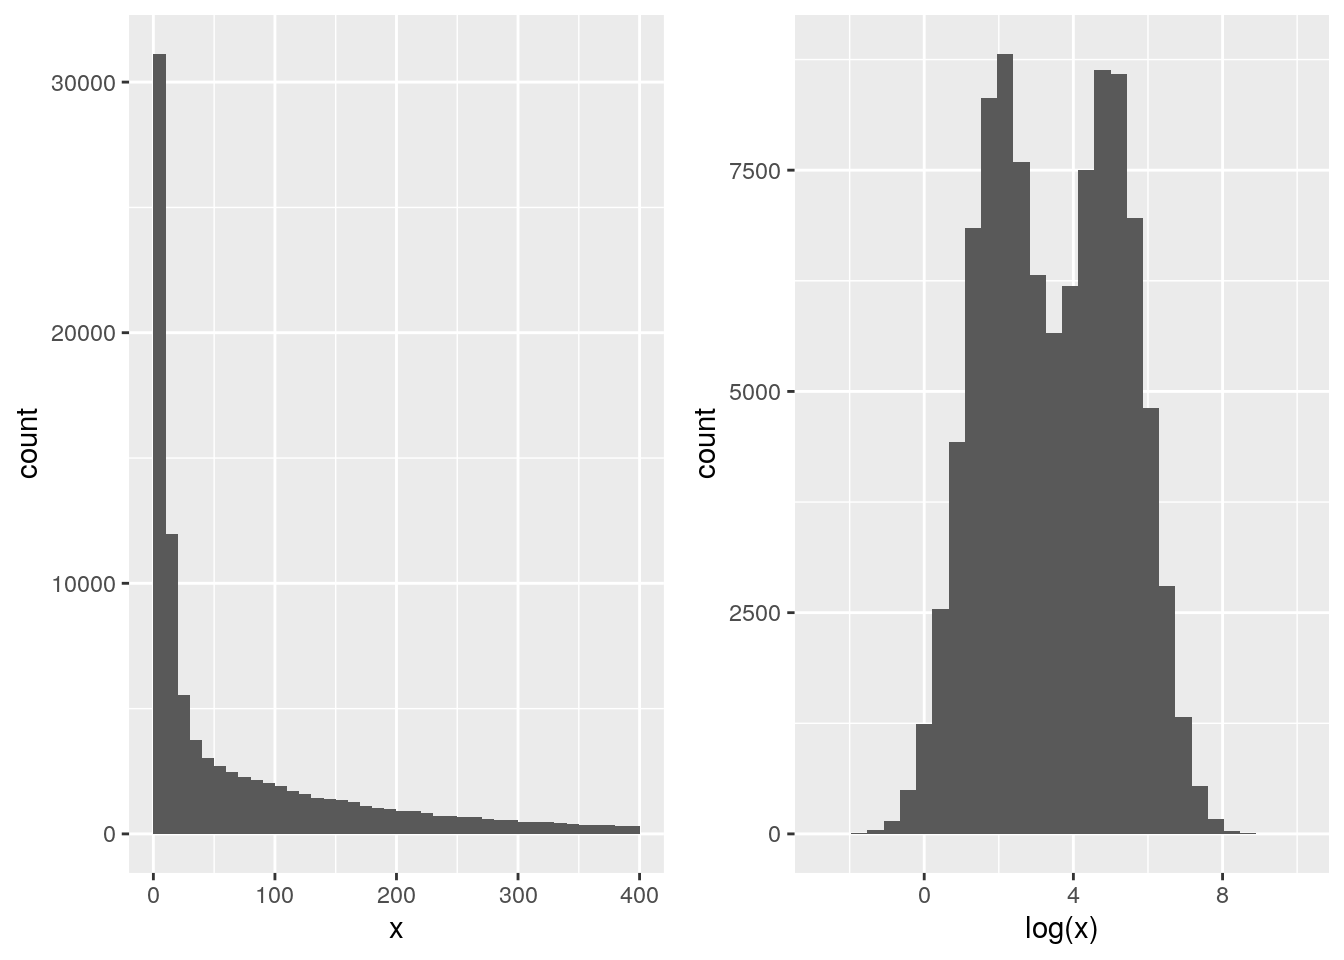
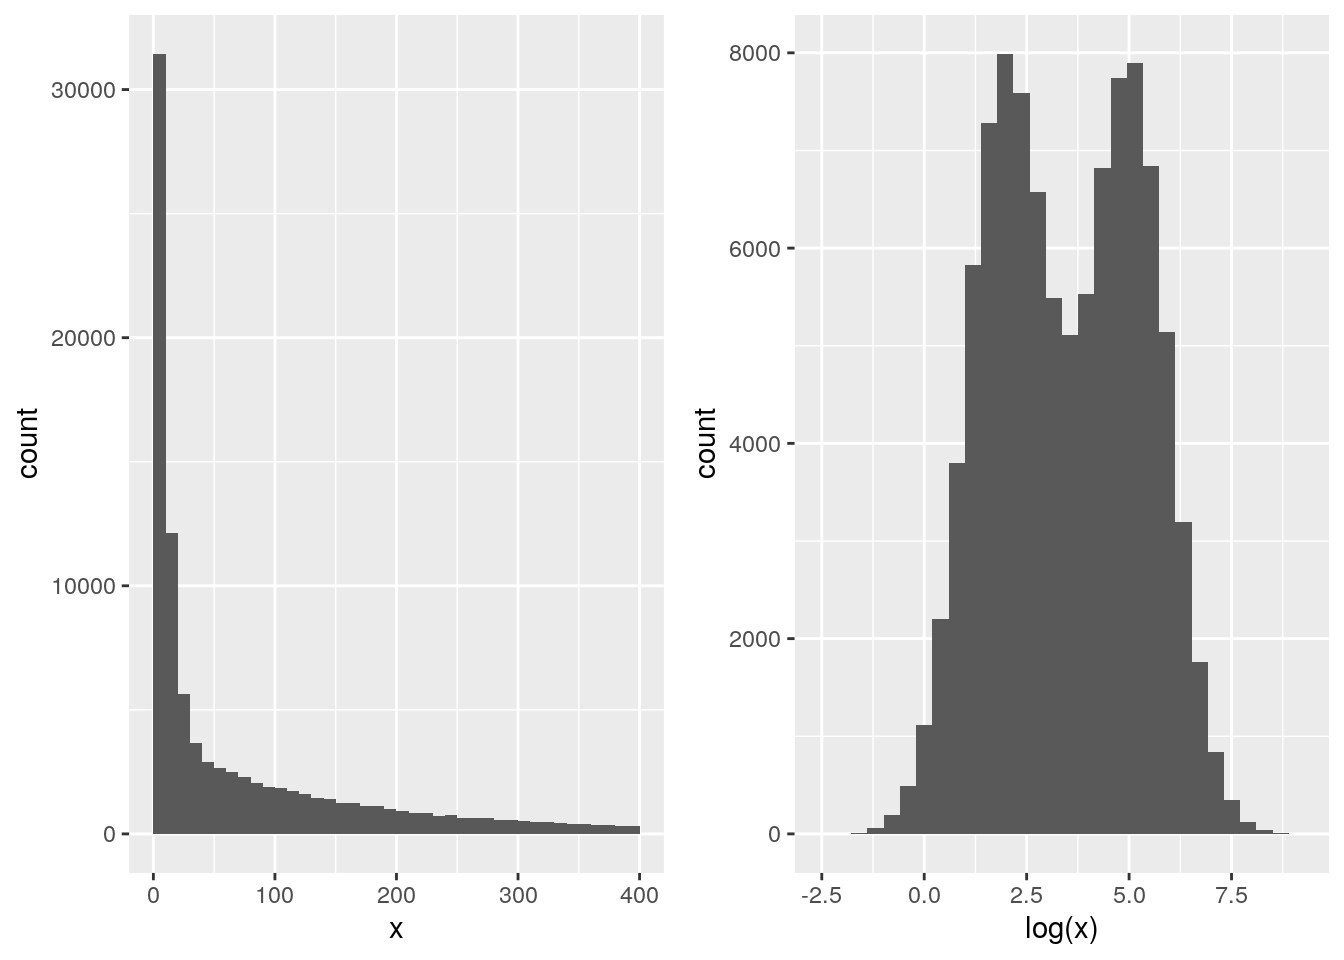
add knn ex

diff --git a/docs/sec-sl.html b/docs/sec-sl.html
@@ -15,7 +15,7 @@
 
 <meta name="author" content="Laurent Gatto" />
 
-<meta name="date" content="2019-11-29" />
+<meta name="date" content="2019-11-30" />
 
 <script type="text/x-mathjax-config">
 MathJax.Hub.Config({
@@ -748,6 +748,71 @@ Figure 10.9: Precision and accuracy when shooting.
 <div id="additional-exercises-8" class="section level2">
 <h2>
 <span class="header-section-number">10.6</span> Additional exercises</h2>
+<p>Load the <code>hyperLOPIT2015</code> data from the <code>pRolocdata</code> package. See section <a href="sec-dimred.html#sec:dimred02">8.7.2</a>) for details. The features variable column <code>markers</code> defines the proteins for which the sub-cellular localisation is known - these are the labelled data. Those that are marked <code>unknown</code> are of unknown location - these are the unlabelled data.</p>
+<div class="question">
+<p class="question-begin">
+► Question
+</p>
+<div class="question-body">
+<p>Perform a kNN classification setting k=5.</p>
+<p class="question-end">
+<span class="fa fa-square-o solution-icon"></span>
+</p>
+</div>
+</div>
+<div class="question">
+<p class="question-begin">
+► Question
+</p>
+<div class="question-body">
+<p>To assess the results of this classification, visualise the data on two PCA plots, one before and one after classification.</p>
+<p>You can use the following colour palette that uses grey for the unlabelled data.</p>
+<div class="sourceCode"><pre class="sourceCode r"><code class="sourceCode r">cls &lt;-<span class="st"> </span><span class="kw">c</span>(<span class="st">"#E41A1C"</span>, <span class="st">"#377EB8"</span>, <span class="st">"#238B45"</span>, <span class="st">"#FF7F00"</span>, <span class="st">"#FFD700"</span>,
+         <span class="st">"#333333"</span>, <span class="st">"#00CED1"</span>, <span class="st">"#A65628"</span>, <span class="st">"#F781BF"</span>, <span class="st">"#984EA3"</span>,
+         <span class="st">"#9ACD32"</span>, <span class="st">"#B0C4DE"</span>, <span class="st">"#00008A"</span>, <span class="st">"#8B795E"</span>, <span class="st">"#E0E0E060"</span>)</code></pre></div>
+<p class="question-end">
+<span class="fa fa-square-o solution-icon"></span>
+</p>
+</div>
+</div>
+<div class="question">
+<p class="question-begin">
+► Question
+</p>
+<div class="question-body">
+<p>Asses the choice of k=5 used above.</p>
+<p class="question-end">
+<span class="fa fa-square-o solution-icon"></span>
+</p>
+</div>
+</div>
+<div class="question">
+<p class="question-begin">
+► Question
+</p>
+<div class="question-body">
+<p>Compare you results with those that were obtained using <em>support vector machine</em>, a popular classifier that was used in Christoforou <em>et al.</em> <span class="citation">(Christoforou et al. <label for="tufte-mn-32" class="margin-toggle">⊕</label><input type="checkbox" id="tufte-mn-32" class="margin-toggle">2016<span class="marginnote">Christoforou, A, C M Mulvey, L M Breckels, A Geladaki, T Hurrell, P C Hayward, T Naake, et al. 2016. “A Draft Map of the Mouse Pluripotent Stem Cell Spatial Proteome.” <em>Nat Commun</em> 7: 8992. doi:<a href="https://doi.org/10.1038/ncomms9992">10.1038/ncomms9992</a>.</span>)</span>, and available in the <code>svm.classification</code> feature variable.</p>
+<p class="question-end">
+<span class="fa fa-square-o solution-icon"></span>
+</p>
+</div>
+</div>
+<div class="question">
+<p class="question-begin">
+► Question
+</p>
+<div class="question-body">
+<p>A classification algorithm will assign a class to any unlabelled instance, even if it doesn’t match any of the prodided classes. This is often the case in omics datasets such as the spatial proteomics example above, where not all the sub-cellular niches are annotated or known. We thus know that some of these assignments will be wrong from a biological point of view.</p>
+<p>Re-run the kNN classifer above, setting <code>prob = TRUE</code> to get the proportion of votes in favour of the assigned class. These are stored as an attribute named <em>prob</em>; eead the <code>knn</code> manual page to learn how to extract these from the <code>knn</code> output variable.</p>
+<ul>
+<li><p>Based on these vote proportions, which results to you consider the most reliable?</p></li>
+<li><p>Re-generate a PCA plot keeping the classification results for the most reliable assignments one, and setting the unreliable ones to <code>unknown</code>.</p></li>
+</ul>
+<p class="question-end">
+<span class="fa fa-square-o solution-icon"></span>
+</p>
+</div>
+</div>
 
 </div>
 </div></body></html>
@@ -757,7 +822,7 @@ Figure 10.9: Precision and accuracy when shooting.
 <a href="sec-biovis.html"><button class="btn btn-default">Next</button></a>
 </p>
 <p class="build-date">Page built: 
-2019-11-29
+2019-11-30
 </p>
 </div>
 </div>

diff --git a/docs/sec-biovis.html b/docs/sec-biovis.html
@@ -15,7 +15,7 @@
 
 <meta name="author" content="Laurent Gatto" />
 
-<meta name="date" content="2019-11-29" />
+<meta name="date" content="2019-11-30" />
 
 <script type="text/x-mathjax-config">
 MathJax.Hub.Config({
@@ -224,7 +224,7 @@ Figure 11.6: An annotated heatmap produced with the <code>ComplexHeatmap</code> 
           <span class="dt">RowSideColors =</span> <span class="kw">as.factor</span>(<span class="kw">fData</span>(hlm)<span class="op">$</span>markers[<span class="dv">1</span><span class="op">:</span><span class="dv">100</span>]))</code></pre></div>
 <div class="sourceCode"><pre class="sourceCode r"><code class="sourceCode r"><span class="kw">library</span>(<span class="st">"d3heatmap"</span>)
 <span class="kw">d3heatmap</span>(MSnbase<span class="op">::</span><span class="kw">exprs</span>(hlm))</code></pre></div>
-<p>See also <em>A tutorial in displaying mass spectrometry-based proteomic data using heat maps</em> <span class="citation">(Key <label for="tufte-mn-32" class="margin-toggle">⊕</label><input type="checkbox" id="tufte-mn-32" class="margin-toggle">2012<span class="marginnote">Key, M. 2012. “A Tutorial in Displaying Mass Spectrometry-Based Proteomic Data Using Heat Maps.” <em>BMC Bioinformatics</em> 13 Suppl 16: S10. doi:<a href="https://doi.org/10.1186/1471-2105-13-S16-S10">10.1186/1471-2105-13-S16-S10</a>.</span>)</span>, that applies to any type of omics data (not only proteomics) for a useful reference.</p>
+<p>See also <em>A tutorial in displaying mass spectrometry-based proteomic data using heat maps</em> <span class="citation">(Key <label for="tufte-mn-33" class="margin-toggle">⊕</label><input type="checkbox" id="tufte-mn-33" class="margin-toggle">2012<span class="marginnote">Key, M. 2012. “A Tutorial in Displaying Mass Spectrometry-Based Proteomic Data Using Heat Maps.” <em>BMC Bioinformatics</em> 13 Suppl 16: S10. doi:<a href="https://doi.org/10.1186/1471-2105-13-S16-S10">10.1186/1471-2105-13-S16-S10</a>.</span>)</span>, that applies to any type of omics data (not only proteomics) for a useful reference.</p>
 </div>
 <div id="visualising-intersections-between-sets" class="section level2">
 <h2>
@@ -370,7 +370,7 @@ feat_list_<span class="dv">10</span> &lt;-<span class="st"> </span><span class="
 <a href="sec-ccl.html"><button class="btn btn-default">Next</button></a>
 </p>
 <p class="build-date">Page built: 
-2019-11-29
+2019-11-30
 </p>
 </div>
 </div>

diff --git a/docs/sec-vis.html b/docs/sec-vis.html
@@ -15,7 +15,7 @@
 
 <meta name="author" content="Laurent Gatto" />
 
-<meta name="date" content="2019-11-29" />
+<meta name="date" content="2019-11-30" />
 
 <script type="text/x-mathjax-config">
 MathJax.Hub.Config({
@@ -720,7 +720,7 @@ p1 &lt;-<span class="st">  </span><span class="kw">ggplot</span>(sim, <span clas
 p2 &lt;-<span class="st">  </span><span class="kw">ggplot</span>(sim, <span class="kw">aes</span>(<span class="kw">log</span>(x))) <span class="op">+</span>
 <span class="st">    </span><span class="kw">geom_histogram</span>(<span class="dt">bins =</span> <span class="dv">30</span>)
 p1 <span class="op">+</span><span class="st"> </span>p2</code></pre></div>
-<pre><code>## Warning: Removed 8100 rows containing non-finite values (stat_bin).</code></pre>
+<pre><code>## Warning: Removed 7898 rows containing non-finite values (stat_bin).</code></pre>
 <div class="figure">
 <span id="fig:sim"></span>
 <p class="caption marginnote shownote">
@@ -937,7 +937,7 @@ scp2 &lt;-<span class="st"> </span>scp <span class="op">+</span><span class="st"
 <a href="sec-obj.html"><button class="btn btn-default">Next</button></a>
 </p>
 <p class="build-date">Page built: 
-2019-11-29
+2019-11-30
 </p>
 </div>
 </div>

diff --git a/docs/index.html b/docs/index.html
@@ -15,7 +15,7 @@
 
 <meta name="author" content="Laurent Gatto" />
 
-<meta name="date" content="2019-11-29" />
+<meta name="date" content="2019-11-30" />
 
 <script type="text/x-mathjax-config">
 MathJax.Hub.Config({
@@ -197,7 +197,7 @@ devtools<span class="op">::</span><span class="kw">install_github</span>(<span c
 <a href="sec-refresher.html"><button class="btn btn-default">Next</button></a>
 </p>
 <p class="build-date">Page built: 
-2019-11-29
+2019-11-30
 </p>
 </div>
 </div>

diff --git a/docs/sec-si.html b/docs/sec-si.html
@@ -15,7 +15,7 @@
 
 <meta name="author" content="Laurent Gatto" />
 
-<meta name="date" content="2019-11-29" />
+<meta name="date" content="2019-11-30" />
 
 <script type="text/x-mathjax-config">
 MathJax.Hub.Config({
@@ -268,7 +268,7 @@ BiocManager<span class="op">::</span><span class="kw">install</span>(pkgs)</code
 <a href="sec-ccl.html"><button class="btn btn-default">Previous</button></a>
 </p>
 <p class="build-date">Page built: 
-2019-11-29
+2019-11-30
 </p>
 </div>
 </div>

diff --git a/docs/sec-refresher.html b/docs/sec-refresher.html
@@ -15,7 +15,7 @@
 
 <meta name="author" content="Laurent Gatto" />
 
-<meta name="date" content="2019-11-29" />
+<meta name="date" content="2019-11-30" />
 
 <script type="text/x-mathjax-config">
 MathJax.Hub.Config({
@@ -274,7 +274,7 @@ code > span.in { color: #60a0b0; font-weight: bold; font-style: italic; } /* Inf
 <a href="sec-vis.html"><button class="btn btn-default">Next</button></a>
 </p>
 <p class="build-date">Page built: 
-2019-11-29
+2019-11-30
 </p>
 </div>
 </div>

diff --git a/docs/sec-ul.html b/docs/sec-ul.html
@@ -15,7 +15,7 @@
 
 <meta name="author" content="Laurent Gatto" />
 
-<meta name="date" content="2019-11-29" />
+<meta name="date" content="2019-11-30" />
 
 <script type="text/x-mathjax-config">
 MathJax.Hub.Config({
@@ -800,7 +800,7 @@ hcl2 &lt;-<span class="st"> </span><span class="kw">hclust</span>(<span class="k
 <a href="sec-sl.html"><button class="btn btn-default">Next</button></a>
 </p>
 <p class="build-date">Page built: 
-2019-11-29
+2019-11-30
 </p>
 </div>
 </div>

diff --git a/docs/sec-mlintro.html b/docs/sec-mlintro.html
@@ -15,7 +15,7 @@
 
 <meta name="author" content="Laurent Gatto" />
 
-<meta name="date" content="2019-11-29" />
+<meta name="date" content="2019-11-30" />
 
 <script type="text/x-mathjax-config">
 MathJax.Hub.Config({
@@ -588,7 +588,7 @@ Figure 6.9: A dataset of 100 labelled and three new, unlalled, points.
 <a href="sec-testing.html"><button class="btn btn-default">Next</button></a>
 </p>
 <p class="build-date">Page built: 
-2019-11-29
+2019-11-30
 </p>
 </div>
 </div>

diff --git a/docs/sec-ccl.html b/docs/sec-ccl.html
@@ -15,7 +15,7 @@
 
 <meta name="author" content="Laurent Gatto" />
 
-<meta name="date" content="2019-11-29" />
+<meta name="date" content="2019-11-30" />
 
 <script type="text/x-mathjax-config">
 MathJax.Hub.Config({
@@ -175,7 +175,7 @@ Figure 12.4: Classification of samples (top) or features (bottom).
 <a href="sec-si.html"><button class="btn btn-default">Next</button></a>
 </p>
 <p class="build-date">Page built: 
-2019-11-29
+2019-11-30
 </p>
 </div>
 </div>

diff --git a/docs/sec-dimred.html b/docs/sec-dimred.html
@@ -15,7 +15,7 @@
 
 <meta name="author" content="Laurent Gatto" />
 
-<meta name="date" content="2019-11-29" />
+<meta name="date" content="2019-11-30" />
 
 <script type="text/x-mathjax-config">
 MathJax.Hub.Config({
@@ -1045,7 +1045,7 @@ Figure 8.23: Testing the effect of RNA sequencing kits 1 and 2.
 <a href="sec-ul.html"><button class="btn btn-default">Next</button></a>
 </p>
 <p class="build-date">Page built: 
-2019-11-29
+2019-11-30
 </p>
 </div>
 </div>

diff --git a/docs/sec-biostrings.html b/docs/sec-biostrings.html
@@ -15,7 +15,7 @@
 
 <meta name="author" content="Laurent Gatto" />
 
-<meta name="date" content="2019-11-29" />
+<meta name="date" content="2019-11-30" />
 
 <script type="text/x-mathjax-config">
 MathJax.Hub.Config({
@@ -768,7 +768,7 @@ Figure 4.1: GC content for chomosome 2L (10 - 11 Mb)
 <a href="sec-norm.html"><button class="btn btn-default">Next</button></a>
 </p>
 <p class="build-date">Page built: 
-2019-11-29
+2019-11-30
 </p>
 </div>
 </div>

diff --git a/docs/sec-norm.html b/docs/sec-norm.html
@@ -15,7 +15,7 @@
 
 <meta name="author" content="Laurent Gatto" />
 
-<meta name="date" content="2019-11-29" />
+<meta name="date" content="2019-11-30" />
 
 <script type="text/x-mathjax-config">
 MathJax.Hub.Config({
@@ -515,7 +515,7 @@ col_na</code></pre></div>
 <a href="sec-mlintro.html"><button class="btn btn-default">Next</button></a>
 </p>
 <p class="build-date">Page built: 
-2019-11-29
+2019-11-30
 </p>
 </div>
 </div>
